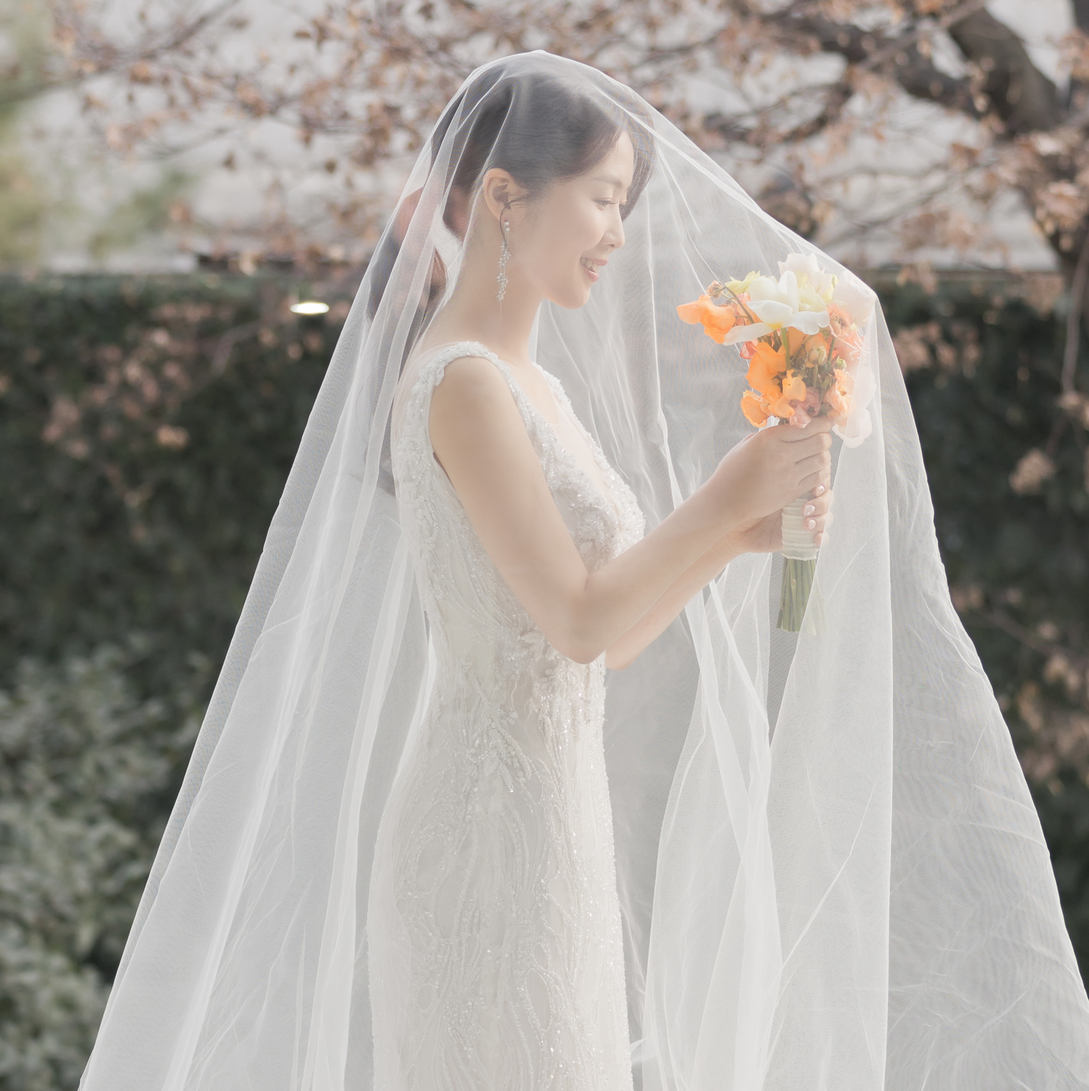
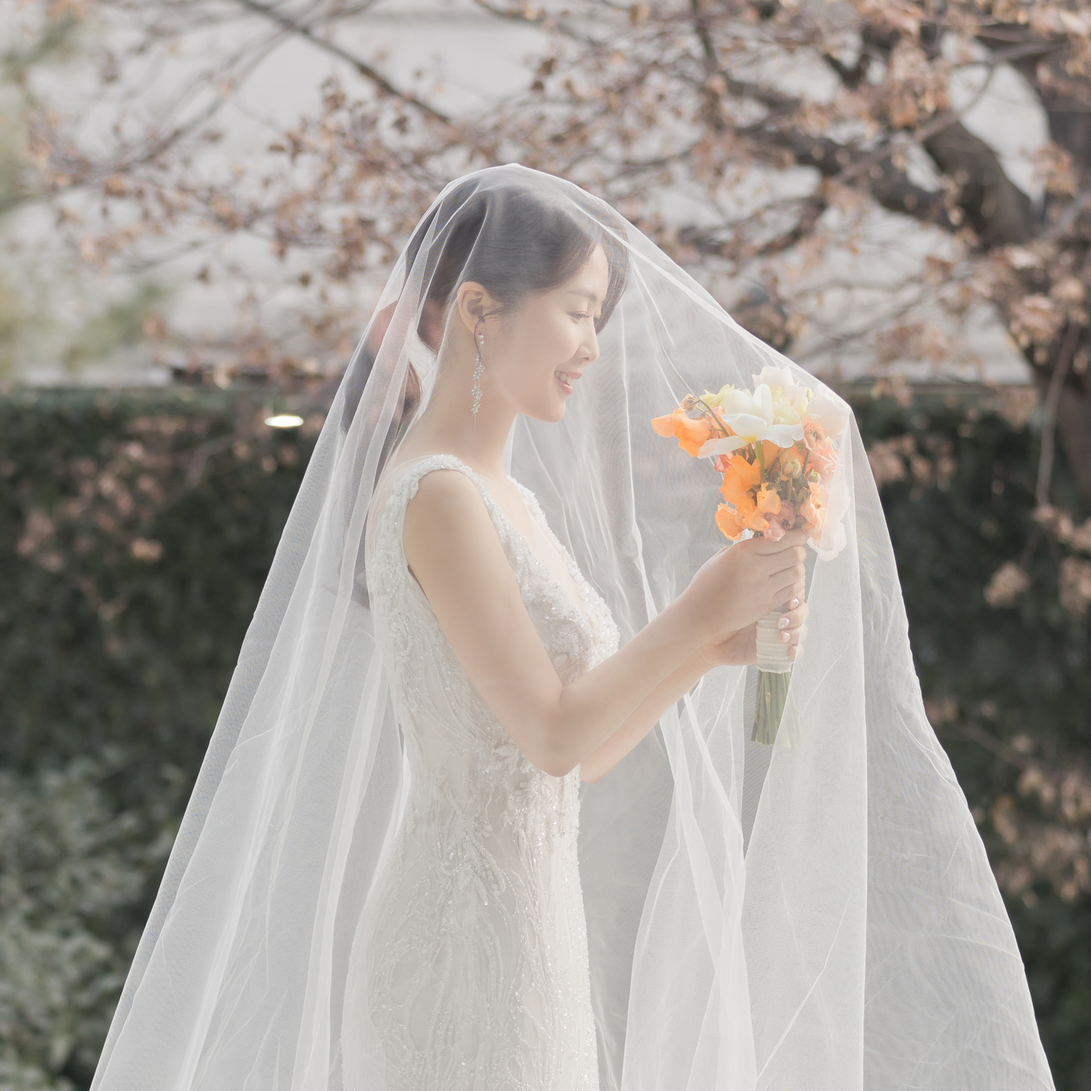
사진삭제, 독사진변경

diff --git a/index.html b/index.html
@@ -201,9 +201,6 @@
             <div class="item10">
                 <img src ="img/gallery/imgthumb06_e.png"/>
             </div>
-            <div class="item14">
-                <img src ="img/gallery/imgthumb07.jpg"/>
-            </div>
             <div class="item16">
                 <img src ="img/gallery/imgthumb08.jpg"/>
             </div>
